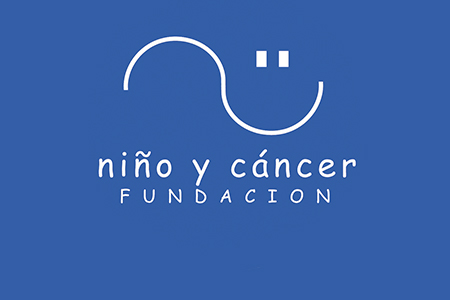
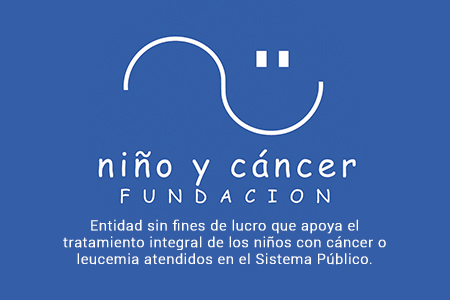
comments and content done

Changed region(s): [[0.1244, 0.72, 0.8711, 0.9]]

diff --git a/nosotros.html b/nosotros.html
@@ -13,7 +13,10 @@
         <script src="https://cdnjs.cloudflare.com/ajax/libs/popper.js/1.12.9/umd/popper.min.js" integrity="sha384-ApNbgh9B+Y1QKtv3Rn7W3mgPxhU9K/ScQsAP7hUibX39j7fakFPskvXusvfa0b4Q" crossorigin="anonymous"></script>
         <script src="https://maxcdn.bootstrapcdn.com/bootstrap/4.0.0/js/bootstrap.min.js" integrity="sha384-JZR6Spejh4U02d8jOt6vLEHfe/JQGiRRSQQxSfFWpi1MquVdAyjUar5+76PVCmYl" crossorigin="anonymous"></script>
     </head>
+    <!--El siguiente body fue hecho con frameworks de GetBootstrap mayoritariamente, usando lo aprendido anteriormente para realizar la evaluación -->
     <body>
+        <!--Navbar implementado de GetBootstrap y editado según necesidades de la evaluación
+        Fuente: https://getbootstrap.com/docs/4.1/components/navbar/ -->
         <nav class="navbar fixed-top navbar-expand-lg navbar-light bg-light">
             <button class="navbar-toggler" type="button" data-toggle="collapse" data-target="#navbarTogglerDemo01" aria-controls="navbarTogglerDemo01" aria-expanded="false" aria-label="Toggle navigation">
                 <span class="navbar-toggler-icon"></span>
@@ -40,26 +43,131 @@
                 </div>
             </div>
             <div class="row small">
-                <p>
-                    Lorem ipsum dolor sit amet consectetur adipisicing elit. Minus dolor quibusdam aliquam eum nihil! Fugit veniam corporis doloremque officia quae voluptate ipsam quasi minus sit unde, minima dicta fugiat consequuntur.
-                    Lorem ipsum dolor, sit amet consectetur adipisicing elit. Ratione, quas doloremque. Molestiae maiores et, autem vel molestias nam laborum similique in ratione iure laudantium ab obcaecati a tenetur quasi placeat?
-                </p>
-                <h4>Consejo General</h4>
-                <p>
-                    Lorem ipsum dolor sit amet consectetur adipisicing elit. Enim, eos tempora! Accusamus placeat consectetur animi quas voluptatem praesentium nesciunt ad assumenda atque magni delectus quos, quae officiis obcaecati quasi numquam!
-                    Lorem ipsum dolor sit amet consectetur adipisicing elit. Perferendis, maiores. Alias veniam voluptates possimus ipsum illum rerum nihil non sequi, corrupti placeat officia fugit sed consequuntur vero! Minima, numquam debitis?
-                </p>
-                <h4>Comité Ejecutivo</h4>
-                <p>
-                    Lorem ipsum, dolor sit amet consectetur adipisicing elit. Suscipit sapiente et delectus molestias nesciunt porro veniam, obcaecati neque. Officia odit odio et voluptas recusandae vel quod sunt rerum ea perspiciatis!
-                    Lorem ipsum, dolor sit amet consectetur adipisicing elit. Facilis rerum quisquam officiis impedit et recusandae. Omnis reiciendis alias, repellat optio quasi qui quidem officiis facere minus? Similique error esse eum?
-                </p>
-                <h4>Directorio Ejecutivo</h4>
-                <p>
-                    Lorem, ipsum dolor sit amet consectetur adipisicing elit. Iste omnis veritatis ut quidem quos, consectetur nobis rerum atque eius enim molestias tempora cupiditate ab praesentium pariatur dolor veniam a dicta?
-                    Lorem ipsum dolor, sit amet consectetur adipisicing elit. Quos eaque corrupti illum earum accusantium laborum nostrum vitae labore expedita sed id dolorem minus possimus eos nisi, fugiat, ex, autem est.
-                </p>
-                <img src="img/directorio.jpg">
+                <div class="col-md-6 offset-md-3 col-sm-12">
+                    <p>
+                        El objetivo general de la Fundación es contribuir con el tratamiento integral de los niños con cáncer y leucemia del país (Plan AUGE y GES), ayudando a su desarrollo integral, mejorando su calidad de vida y fortaleciendo su integración social y familiar.
+                        <br>
+                        En el año 1992 se creó la Fundación Oncológica Las Condes, atendiendo a niños y adultos con cáncer. En el año 2000 se modifican sus estatutos según el decreto N° 994 publicado en el Diario Oficial N° 36817, para atender solamente a niños con cáncer.
+                    </p>
+                    <h4>Consejo General</h4>
+                    <p>
+                        Este consejo sobre la base de un conocimiento técnico acabado de la enfermedad a nivel nacional e internacional, dan las líneas generales del trabajo de la Fundación. 
+                    </p>
+                    <!--Tabla de información implementada con GetBootstrap
+                    Fuente: https://getbootstrap.com/docs/4.1/content/tables/ -->
+                    <table class="table">
+                            <thead>
+                              <tr>
+                                <th scope="col">Nombre</th>
+                                <th scope="col">Cargo</th>
+                              </tr>
+                            </thead>
+                            <tbody>
+                              <tr>
+                                <td>Dr. Juan Quintana B.</td>
+                                <td>Pediatra Oncólogo Clínica Las Condes
+                                    <br>
+                                    Presidente de la Sociedad Latinoamericana de Oncología Pediátrica
+                                </td>
+                              </tr>
+                              <tr>
+                                <td>Dra. Anette Becker</td>
+                                <td>Hospital Sotero del Río</td>
+                              </tr>
+                              <tr>
+                                <td>Dra. Victoria Beresi</td>
+                                <td>Pediatra Hemato-oncóloga</td>
+                              </tr>
+                              <tr>
+                                <td>Dr. Felipe Espinoza C.</td>
+                                <td>Hospital San Borja Arriarán</td>
+                            </tr>
+                            <tr>
+                                <td>Dr. Carlos Rizzardini</td>
+                                <td>Hospital Roberto del Río</td>
+                            </tr>
+                            <tr>
+                                <td>Dr. Jaime Rojas</td>
+                                <td>Hospital Regional de Concepción</td>
+                            </tr>
+                            <tr>
+                                <td>Dr. Eduardo Páez</td>
+                                <td>Hospital Regional de Temuco</td>
+                            </tr>
+                            <tr>
+                                <td>Sr. Fernando Manns</td>
+                                <td>Productor Audiovisual</td>
+                            </tr>
+                            <tr>
+                                <td>Sr. Daniel Lyon</td>
+                                <td>Abogado</td>
+                            </tr>
+                            </tbody>
+                          </table>
+                    <h4>Comité Ejecutivo</h4>
+                    <p>
+                        Responsable directo del manejo de la Fundación.
+                    </p>
+                    <table class="table">
+                        <thead>
+                            <tr>
+                            <th scope="col">Nombre</th>
+                            <th scope="col">Cargo</th>
+                            </tr>
+                        </thead>
+                        <tbody>
+                            <tr>
+                            <td>Dr. Juan A. Quintana B.</td>
+                            <td>Presidente</td>
+                            </tr>
+                            <tr>
+                            <td>Dra. Victoria Beresi</td>
+                            <td>Secretaria</td>
+                            </tr>
+                            <tr>
+                            <td>Sr. Fernando Manns O.</td>
+                            <td>Tesorero</td>
+                            </tr>
+                        </tbody>
+                        </table>
+                    <h4>Directorio Ejecutivo</h4>
+                    <p>
+                        Está integrado por un grupo de profesionales y empresarios de reconocida trayectoria, cuyo principal objetivo es la obtención de recursos para los distintos proyectos.
+                    </p>
+                    <div class="text-center">
+                        <img class="img-responsive my-3" src="img/directorio.jpg">
+                    </div>
+                    <table class="table">
+                        <thead>
+                            <tr>
+                            <th scope="col">Nombre</th>
+                            </tr>
+                        </thead>
+                        <tbody>
+                            <tr>
+                            <td>Dr. Juan A. Quintana B.</td>
+                            </tr>
+                            <tr>
+                            <td>Sr. Carlos Ossa E.</td>
+                            </tr>
+                            <tr>
+                            <td>Dr. Felipe Espinoza C.</td>
+                            </tr>
+                            <tr>
+                            <td>Sr. Alejandro Miralles G.</td>
+                            </tr>
+                            <tr>
+                            <td>Sr. Daniel Lyon</td>
+                            </tr>
+                            <tr>
+                            <td>Dra. Victoria Beresi</td>
+                            </tr>
+                            <tr>
+                            <td>Sr. Fernando Manns O.</td>
+                            </tr>
+                        </tbody>
+                    </table>
+                </div>
             </div>
             <div class="row my-2">
                 <div class="col-12">
@@ -67,14 +175,15 @@
                 </div>
             </div>
             <div class="row small">
-                <p>
-                    Lorem ipsum dolor sit amet consectetur, adipisicing elit. Temporibus asperiores, dolore cum exercitationem mollitia porro, cupiditate inventore velit repellendus quia in architecto nemo doloremque culpa maxime consectetur placeat adipisci magnam!
-                    Lorem ipsum dolor sit amet consectetur adipisicing elit. Totam deserunt non optio voluptate, harum, neque minus odit eligendi ad ullam excepturi qui quae repellendus! Sed reiciendis possimus qui ipsa unde?
-                </p>
-                <h4>Principales actividades</h4>
-                <p>
-                    Lorem ipsum dolor sit amet consectetur adipisicing elit. Deserunt repellendus optio id quasi, laboriosam autem ea quibusdam corrupti illum, consectetur, vero voluptatem quidem quo nisi consequatur hic quia molestiae dolores?
-                </p>
+                <div class="col-md-6 offset-md-3 col-sm-12">
+                    <p>
+                        La Fundación Niño y Cáncer es una entidad sin fines de lucro que nació para ser un importante apoyo en el tratamiento integral de los niños con cáncer o leucemia atendidos en el Sistema Público del país (Plan AUGE y GES) mejorando su calidad de vida y fortaleciendo su integración social y familiar.
+                    </p>
+                    <h4>Principales actividades</h4>
+                    <p>
+                        La fundación está convencida que para derrotar el cáncer no sólo hay que preocuparse de curar el cuerpo de los pacientes. El espíritu también se ve afectado y para salir adelante es esencial querer curarse. Por esta razón, son muy importantes los programas recreativos, los cuales ayudan a superar los sufrimientos y mantener vivo el deseo de curarse.
+                    </p>
+                </div>
             </div>
         </div>
         <footer>

diff --git a/noticias.html b/noticias.html
@@ -13,7 +13,10 @@
         <script src="https://cdnjs.cloudflare.com/ajax/libs/popper.js/1.12.9/umd/popper.min.js" integrity="sha384-ApNbgh9B+Y1QKtv3Rn7W3mgPxhU9K/ScQsAP7hUibX39j7fakFPskvXusvfa0b4Q" crossorigin="anonymous"></script>
         <script src="https://maxcdn.bootstrapcdn.com/bootstrap/4.0.0/js/bootstrap.min.js" integrity="sha384-JZR6Spejh4U02d8jOt6vLEHfe/JQGiRRSQQxSfFWpi1MquVdAyjUar5+76PVCmYl" crossorigin="anonymous"></script>
     </head>
+    <!--El siguiente body fue hecho con frameworks de GetBootstrap mayoritariamente, usando lo aprendido anteriormente para realizar la evaluación -->
     <body>
+        <!--Navbar implementado de GetBootstrap y editado según necesidades de la evaluación
+        Fuente: https://getbootstrap.com/docs/4.1/components/navbar/ -->
         <nav class="navbar fixed-top navbar-expand-lg navbar-light bg-light">
             <button class="navbar-toggler" type="button" data-toggle="collapse" data-target="#navbarTogglerDemo01" aria-controls="navbarTogglerDemo01" aria-expanded="false" aria-label="Toggle navigation">
                 <span class="navbar-toggler-icon"></span>
@@ -41,32 +44,50 @@
             </div>
             <div class="row my-2">
                 <div class="col-md-6 col-sm-12 text-center">
-                    <img src="img/news1.png" width="300" class="img-fluid">
+                    <img src="img/news4.jpg" width="300" class="img-fluid">
                 </div>
-                <div class="col-md-6 col-sm-text-center text-center">
-                    <h4>Noticia 1</h4>
-                    <p>Lorem ipsum dolor sit, amet consectetur adipisicing elit. Obcaecati earum fugit ad ipsam nisi, quibusdam veritatis distinctio modi numquam, voluptas, ea nam veniam illum error ipsa. Error quisquam minima totam?</p>
+                <div class="col-md-6 col-sm-text-center">
+                    <h3>Terminó el proceso de postulación a becas de estudio</h3>
+                    <p class="small"><i class="far fa-calendar text-primary"></i> 02 de Marzo</p>
+                    <p>
+                        El objetivo de este proyecto es beneficiar a jóvenes recuperados de cáncer con becas académicas, para lograr la continuidad de estudios pendientes y obtener una profesión futura y reinserción en la sociedad.
+                        <br>
+                        Las becas podrán atender a los jóvenes con estudios universitarios, técnicos profesionales o de centros de formación técnica. Así también podrán tener alcances  parciales y en ocasiones especiales, totales.
+                        <br>
+                        <b>El año 2018 se otorgaron un total de 28 becas de las cuales 15 corresponden alumnos antiguos y 13 son para alumnos que inician sus estudios superiores este año 2018.</b>
+                    </p>
                 </div>
             </div>
             <div class="row my-2">
-                    <div class="col-md-6 col-sm-12 text-center">
-                        <img src="img/news2.jpg" width="300" class="img-fluid">
-                    </div>
-                    <div class="col-md-6 col-sm-12 text-center">
-                        <h4>Noticia 2</h4>
-                        <p>Lorem ipsum dolor sit amet consectetur adipisicing elit. Nam iure culpa ipsa delectus aspernatur facilis laudantium molestias voluptas quae hic debitis, cupiditate ut nisi enim quam perferendis excepturi unde veritatis.</p>
-                    </div>
-            </div>
-            <div class="row my-2">
-                    <div class="col-md-6 col-sm-12 text-center">
-                        <img src="img/news3.jpg" width="300" class="img-fluid">
-                    </div>
-                    <div class="col-md-6 col-sm-12 text-center">
-                        <h4>Noticia 2</h4>
-                        <p>Lorem ipsum dolor sit amet consectetur adipisicing elit. Nam iure culpa ipsa delectus aspernatur facilis laudantium molestias voluptas quae hic debitis, cupiditate ut nisi enim quam perferendis excepturi unde veritatis.</p>
-                    </div>
+                <div class="col-md-6 col-sm-12 text-center">
+                    <img src="img/news3.jpg" width="300" class="img-fluid">
+                </div>
+                <div class="col-md-6 col-sm-12">
+                    <h3>Torneo de futbolito y porristas</h3>
+                    <p class="small"><i class="far fa-calendar text-primary"></i> 15 de Abril</p>
+                    <p>
+                        Con gran entusiasmo y una importante participación se llevó a cabo, el domingo 15 de abril, <b>el XV Torneo Inter Hospitales de Futbolito y Porristas 2018</b>, en el que participaron niños que padecen de cáncer y que son atendidos en los Hospitales Luis Calvo Mackenna, Exequiel González Cortés, San Borja Arriarán, San Juan de Dios, Sotero del Río y Gustavo Fricke.
+                        <br>
+                        A dicha actividad que se realizó en dependencias del Estadio del Banco Central y organizada por la Fundación Niño y Cáncer, llegaron cerca de 460 personas entre niños, sus padres y personal de apoyo de los distintos recintos hospitalarios.
+                        <br>
+                        El principal objetivo de esta actividad, es entregar a niños, jóvenes y sus familias una instancia recreativa;  mostrarles que sufrir una enfermedad difícil como es el cáncer infantil y la leucemia, no es razón para dejar de ser optimistas, alegres y disfrutar los lindos momentos que la vida nos entrega, como es la posibilidad de jugar con jóvenes de su misma edad. Nuestro espíritu es promover una jornada de sana competencia, colaboración y fraternidad como otra forma de sanación del alma.
+                    </p>
                 </div>
             </div>
+            <div class="row my-2">
+                <div class="col-md-6 col-sm-12 text-center">
+                    <img src="img/news2.jpg" width="300" class="img-fluid">
+                </div>
+                <div class="col-md-6 col-sm-12">
+                    <h3>Tallarinata de amor y sonrisas</h3>
+                    <p class="small"><i class="far fa-calendar text-primary"></i> 30 de Agosto</p>
+                    <p>Con gran éxito se desarrolló nuestra Tallarinata de Amor y Sonrisas el 30 de agosto en el Estadio del Banco Central. 
+                        <br>
+                        La velada estuvo animada por nuestro amigo y permanente colaborador Checho Hirane, además de contar con la extraordinaria presentación de Andrea Tessa y otros artistas invitados.
+                        <br>
+                        Agradecemos a todos los asistentes que compartieron, donaron dinero y tiempo a esta noble causa, cuyo principal objetivo es entregar una vida más llevadera a los con cáncer atendidos a en los hospitales públicos de nuestro país.
+                    </p>
+                </div>
             </div>
         </div>
         <footer>

diff --git a/index.html b/index.html
@@ -4,7 +4,7 @@
         <meta charset="utf-8" />
         <meta http-equiv="X-UA-Compatible" content="IE=edge">
         <title>Fundación Niño y Cáncer - Index</title>
-        <meta name="viewport" content="width=device-width, initial-scale=3">
+        <meta name="viewport" content="width=device-width, initial-scale=1">
         <link rel="icon" href="img/logo-favico.png" type="image/gif">
         <link rel="stylesheet" href="https://maxcdn.bootstrapcdn.com/bootstrap/4.0.0/css/bootstrap.min.css" integrity="sha384-Gn5384xqQ1aoWXA+058RXPxPg6fy4IWvTNh0E263XmFcJlSAwiGgFAW/dAiS6JXm" crossorigin="anonymous">
         <link rel="stylesheet" href="https://use.fontawesome.com/releases/v5.3.1/css/all.css" integrity="sha384-mzrmE5qonljUremFsqc01SB46JvROS7bZs3IO2EmfFsd15uHvIt+Y8vEf7N7fWAU" crossorigin="anonymous">
@@ -13,7 +13,10 @@
         <script src="https://cdnjs.cloudflare.com/ajax/libs/popper.js/1.12.9/umd/popper.min.js" integrity="sha384-ApNbgh9B+Y1QKtv3Rn7W3mgPxhU9K/ScQsAP7hUibX39j7fakFPskvXusvfa0b4Q" crossorigin="anonymous"></script>
         <script src="https://maxcdn.bootstrapcdn.com/bootstrap/4.0.0/js/bootstrap.min.js" integrity="sha384-JZR6Spejh4U02d8jOt6vLEHfe/JQGiRRSQQxSfFWpi1MquVdAyjUar5+76PVCmYl" crossorigin="anonymous"></script>
     </head>
+    <!--El siguiente body fue hecho con frameworks de GetBootstrap mayoritariamente, usando lo aprendido anteriormente para realizar la evaluación -->
     <body>
+        <!--Navbar implementado de GetBootstrap y editado según necesidades de la evaluación
+        Fuente: https://getbootstrap.com/docs/4.1/components/navbar/ -->
         <nav class="navbar fixed-top navbar-expand-lg navbar-light bg-light">
             <button class="navbar-toggler" type="button" data-toggle="collapse" data-target="#navbarTogglerDemo01" aria-controls="navbarTogglerDemo01" aria-expanded="false" aria-label="Toggle navigation">
                 <span class="navbar-toggler-icon"></span>
@@ -39,6 +42,8 @@
                     <h1 class="text-uppercase text-center font-weight-light">Fundación Niño y Cáncer</h1>
                 </div>
             </div>
+            <!--Carousel implementado de GetBootstrap
+            Fuente: https://getbootstrap.com/docs/4.1/components/carousel/ -->
             <div class="row my-2">
                 <div id="carouselExampleControls" class="carousel slide col-md-6 offset-md-3" data-ride="carousel">
                     <div class="carousel-inner">
@@ -55,9 +60,6 @@
                             <img class="w-100" src="img/montana.png" alt="Fourth slide">
                         </div>
                     </div>
-                    <div class="carousel-caption">
-                        <p class="small">Entidad sin fines de lucro que apoya el tratamiento integral de los niños con cáncer o leucemia atendidos en el Sistema Público.</p>
-                    </div>
                     <a class="carousel-control-prev" href="#carouselExampleControls" role="button" data-slide="prev">
                         <span class="carousel-control-prev-icon" aria-hidden="true"></span>
                         <span class="sr-only">Anterior</span>
@@ -70,26 +72,28 @@
             </div>
             <div class="row my-2">
                 <div class="col-md-4">
+                    <!--Cards implementadas de GetBootstrap para los thumbnails necesarios
+                    Fuente: https://getbootstrap.com/docs/4.1/components/card/ -->
                     <div class="card">
-                        <img class="card-img-top" src="img/news1.png" alt="Card image cap">
+                        <img class="card-img-top" src="img/news1.png" alt="Noticia 1">
                         <div class="card-body">
-                            <p class="card-text">Some quick example text to build on the card title and make up the bulk of the card's content.</p>
+                            <p class="card-text"><b>Dona tus 7 lucas</b> <br> Todas las sonrisas son gratis, pero unas cuestan más que otras...</p>
                         </div>
                     </div>
                 </div>
                 <div class="col-md-4">
                     <div class="card">
-                        <img class="card-img-top" src="img/news2.jpg" alt="Card image cap">
+                        <img class="card-img-top" src="img/news2.jpg" alt="Noticia 2">
                         <div class="card-body">
-                            <p class="card-text">Some quick example text to build on the card title and make up the bulk of the card's content.</p>
+                            <p class="card-text"><b>Tallarinata de amor y sonrisas</b> <br> Una noche de sonrisas, amor y generosidad.</p>
                         </div>
                     </div>
                 </div>
                 <div class="col-md-4">
                     <div class="card">
-                        <img class="card-img-top" src="img/news3.jpg" alt="Card image cap">
+                        <img class="card-img-top" src="img/news3.jpg" alt="Noticia 3">
                         <div class="card-body">
-                            <p class="card-text">Some quick example text to build on the card title and make up the bulk of the card's content.</p>
+                            <p class="card-text"><b>Torneo de futbolito y porristas</b> <br> Estimulado el deporte en los niños con cáncer.</p>
                         </div>
                     </div>
                 </div>

diff --git a/main.css b/main.css
@@ -4,6 +4,9 @@ body {
 .bg-light {
     background-color: #008ccc!important;
 }
+.navbar-togggler-icon {
+    color: white!important;
+}
 .active>.nav-link {
     color: white!important;
 }
